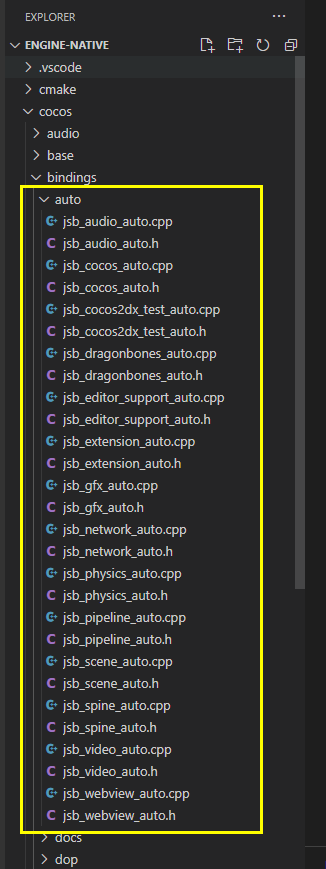
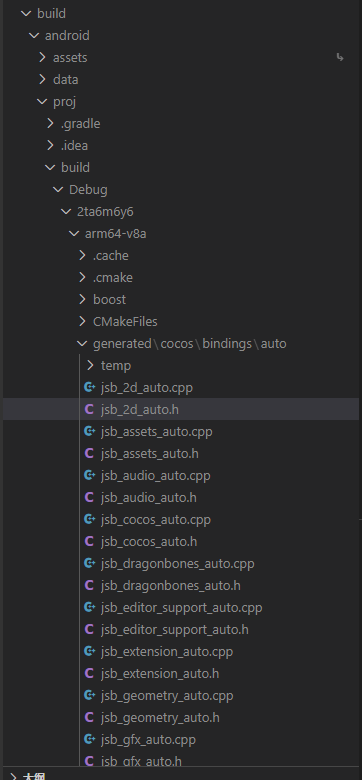
+ https://forum.cocos.org/t/topic/152207/152?u=jare + https://forum.cocos.org/t/topic/152207/146?u=jare + external 的位置移动。 + swig err

Changed region(s): [[0.0307, 0.0, 0.8282, 1.0], [0.8589, 0.0308, 1.0, 0.6769], [0.6135, 0.0308, 0.8282, 0.0615]]

diff --git a/en/advanced-topics/engine-customization.md b/en/advanced-topics/engine-customization.md
@@ -49,7 +49,50 @@ Obtain the specific version of cocos-engine source code from the Cocos Engine re
 - If the custom engine is only used for a specific project, it is recommended to put it in the project directory.
 - If multiple projects will share the same custom engine, place it in a suitable shared directory based on your project management approach.
 
-### 2. Installing Compilation Dependencies
+### 2. Downloading external
+
+The compilation of the Cocos native engine depends on the libraries in `cocos-engine/native/external/`. These libraries are several hundred megabytes in size and are not included by default in the source code package. You can obtain them in the following three ways:
+
+**The First Way:** Use git command-line
+
+```ts
+  cd cocos-engine/native
+  git clone https://github.com/cocos/cocos-engine-external external
+  cd external
+  git checkout -b branch_name tag 
+```
+
+- branch_name：The new branch name
+- tag：The tag name corresponding to the third-party library. You can get it from the `checkout` field in `cocos-engine/native/external-config.json` file.
+
+> Example: If we want to use version 3.7.1-1, it can be written as `git checkout -b 3.7.3-1 3.7.3-1`
+
+**The Second Way:** Use gulp
+
+The following shell will only download the third-party libraries corresponding to the specific tag.
+
+```ts
+  cd cocos-engine/native
+  npm install
+  gulp init
+```
+
+> Whenever the used tag changes, you need to download it again. It requires downloading several hundred megabytes of content each time.
+
+**The Third Way:** Download the ZIP package
+
+If, for some reason, you cannot download the `external` source code package using `NodeJS` and `git commands`, you can directly download it from the [cocos-engine-external repository](https://github.com/cocos/cocos-engine-external) by following these steps.
+
+![download-external-zip](engine-customization/download-external-zip.png)
+
+1. Select the corresponding tag. You can check which one to use from the `checkout` field of `cocos-engine/native/external-config.json`.
+2. Click the **Code** button on the right to open the code-getting panel.
+3. Click the **Download ZIP** button to download the source code as a ZIP package.
+4. Exact the package, rename it to `external`, and place it in the  `cocos-engine/native` folder.
+
+> **Note:** The version of `external` and `cocos-engine` must match, otherwise, it may result in compilation errors.
+
+### 3. Installing Compilation Dependencies
 
 The compilation dependencies require `NodeJS`. Make sure you have installed `NodeJS v12.0` or above on your computer. If not, please download and install it from [https://nodejs.org/](https://nodejs.org/).
 
@@ -64,7 +107,7 @@ npm install
 gulp build
 ```
 
-### 3. Modifying the Engine Path
+### 4. Modifying the Engine Path
 
 Use the **Cocos Creator/File -> Preferences -> Engine Manager** tab to set the path to the engine source code. Note that **you need to restart the editor after modifying the engine path**.
 
@@ -107,49 +150,6 @@ This command will generate a bin folder under the engine directory and compile t
 If you need to customize the engine functionality related to native platforms, in addition to modifying the TypeScript code, you may also need to modify the C++ code.
 
 To ensure that the native code can be compiled properly, make sure that the `Use Custom` option in the `Native Module` is selected.
-
-### Downloading external
-
-The compilation of the Cocos native engine depends on the libraries in `cocos-engine/native/external/`. These libraries are several hundred megabytes in size and are not included by default in the source code package. You can obtain them in the following three ways:
-
-**The First Way:** Use git command-line
-
-```ts
-  cd cocos-engine/native
-  git clone https://github.com/cocos/cocos-engine-external external
-  cd external
-  git checkout -b branch_name tag 
-```
-
-- branch_name：The new branch name
-- tag：The tag name corresponding to the third-party library. You can get it from the `checkout` field in `cocos-engine/native/external-config.json` file.
-
-> Example: If we want to use version 3.7.1-1, it can be written as `git checkout -b 3.7.3-1 3.7.3-1`
-
-**The Second Way:** Use gulp
-
-The following shell will only download the third-party libraries corresponding to the specific tag.
-
-```ts
-  cd cocos-engine/native
-  npm install
-  gulp init
-```
-
-> Whenever the used tag changes, you need to download it again. It requires downloading several hundred megabytes of content each time.
-
-**The Third Way:** Download the ZIP package
-
-If, for some reason, you cannot download the `external` source code package using `NodeJS` and `git commands`, you can directly download it from the [cocos-engine-external repository](https://github.com/cocos/cocos-engine-external) by following these steps.
-
-![download-external-zip](engine-customization/download-external-zip.png)
-
-1. Select the corresponding tag. You can check which one to use from the `checkout` field of `cocos-engine/native/external-config.json`.
-2. Click the **Code** button on the right to open the code-getting panel.
-3. Click the **Download ZIP** button to download the source code as a ZIP package.
-4. Exact the package, rename it to `external`, and place it in the  `cocos-engine/native` folder.
-
-> **Note:** The version of `external` and `cocos-engine` must match, otherwise, it may result in compilation errors.
 
 ### Compiling in Cocos Creator
 

diff --git a/zh/advanced-topics/jsb/swig/tutorial/index.md b/zh/advanced-topics/jsb/swig/tutorial/index.md
@@ -10,36 +10,15 @@
 
 - 添加必要的配置，可以参考 `native/tools/swig-config`  目录下现有的 .i 文件配置，或者参考[下面的章节内容](#如何为开发者的项目绑定一个新模块)。
 
-### 修改 swig-config.js 文件
-
-```js
-// ......
-// 引擎模块配置
-const configList = [
-    [ '2d.i', 'jsb_2d_auto.cpp' ],
-    // ......
-    [ 'renderer.i', 'jsb_render_auto.cpp' ],
-    [ 'new-engine-module.i', 'jsb_new_engine_module_auto.cpp' ], // 添加此行
-];
-//......
-```
-
-### 生成绑定代码
-
-```bash
-cd engine/native/tools/swig-config
-node genbindings.js
-```
-
 ### 修改 `engine/native/cocos/CMakeLists.txt`
 
 ```cmake
 ######## auto
 cocos_source_files(
-    NO_WERROR   NO_UBUILD   cocos/bindings/auto/jsb_new_engine_module_auto.cpp # 添加此行
-                            cocos/bindings/auto/jsb_new_engine_module_auto.h # 添加此行
-    NO_WERROR   NO_UBUILD   cocos/bindings/auto/jsb_cocos_auto.cpp
-                            cocos/bindings/auto/jsb_cocos_auto.h
+    NO_WERROR   NO_UBUILD   ${SWIG_OUTPUT}/jsb_cocos_auto.cpp # 添加此行
+                            ${SWIG_OUTPUT}/jsb_cocos-auto.h # 添加此行
+    NO_WERROR   NO_UBUILD   ${SWIG_OUTPUT}/jsb_cocos_auto.cpp
+                            ${SWIG_OUTPUT}/jsb_cocos_auto.h
     ......
 ```
 

diff --git a/zh/advanced-topics/jsb-auto-binding.md b/zh/advanced-topics/jsb-auto-binding.md
@@ -60,9 +60,11 @@ Windows 下直接参考上面需要安装的模块直接安装就好了，最后
 
 ### 自动绑定展示
 
-这里演示的是 cocos 引擎下面也即 **cocos/bindings/auto** 目录下的文件（如下图所示）是怎么自动生成的：
+这里演示的是 cocos 引擎下面也即 **generated/cocos/bindings/auto** 目录下的文件（如下图所示）是怎么自动生成的：
 
 ![](jsb/auto-file.png)
+
+> **注意**：该目录会在构建时自动成成，未构建时并不会创建。
 
 其实从这些文件名的开头也能看出，这些文件命名都是有某些特定规律的，那么这些文件是怎么生成的呢？首先打开终端，先 cd 到 **tools/tojs** 目录下，然后直接运行 `./genbindings.py`：
 

diff --git a/zh/advanced-topics/jsb-swig.md b/zh/advanced-topics/jsb-swig.md
@@ -8,8 +8,6 @@
 
 需要注意: 如果为引擎添加或删除了 `.i` 文件，你需要重新生成工程来确保更新对 `.i` 文件的引用，并生成更新的绑定代码。
 
-
-
 ## 为开发者的项目生成绑定代码
 
 - 确保你已经安装了 NodeJS，版本号大于或等于 v8.9.4
